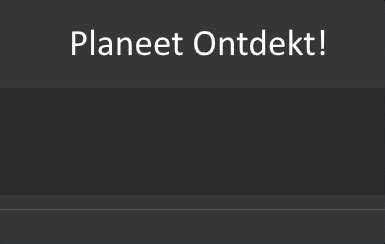
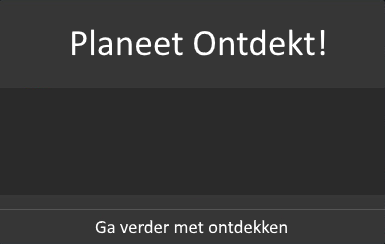
fixed healthbar in minigame

Changed region(s): [[0.2494, 0.8893, 0.7481, 0.9754]]

diff --git a/dev/game.ts b/dev/game.ts
@@ -2,6 +2,7 @@
 
 module Game {
 
+
     export class TitleScreenState extends Phaser.State {
         game: Phaser.Game
         constructor() {
@@ -30,10 +31,13 @@ module Game {
     export class SpaceshipScreenState extends Phaser.State {
         game: Phaser.Game
         text: Phaser.Text
+        playerSprite:any
         constructor() {
             super()
         }
-        spaceshipImage: Phaser.Sprite
+        spaceship1: Phaser.Button
+        spaceship2: Phaser.Button
+        spaceship3: Phaser.Button
 
         preload() {
             this.load.image("spaceship1", "../dev/Assets/Graphics/Spaceship1.png")
@@ -41,15 +45,17 @@ module Game {
             this.load.image("spaceship3", "../dev/Assets/Graphics/Spaceship3.png")
         }
         create() {
-            this.spaceshipImage = this.add.sprite(500, 300, "spaceship1")
-            this.spaceshipImage = this.add.sprite(700, 300, "spaceship2")
-            this.spaceshipImage = this.add.sprite(900, 300, "spaceship3")
+            this.spaceship1 = this.add.button(500, 300, "spaceship1",  this.spaceshipClicked, this, 2, 1, 0)
+            this.spaceship2 = this.add.button(700, 300, "spaceship2",  this.spaceshipClicked, this, 2, 1, 0)
+            this.spaceship3 = this.add.button(900, 300, "spaceship3",  this.spaceshipClicked, this, 2, 1, 0)
             this.text = this.game.add.text(650, 200, 'Kies je Ruimteschip', { font: '20px Arial', fill: '#ffffff' })
-            this.input.onTap.addOnce(this.spaceshipClicked, this) // <-- that um, this is extremely important
+          //  this.input.onTap.addOnce(this.spaceshipClicked, this) // <-- that um, this is extremely important
         }
-        spaceshipClicked() {
+        spaceshipClicked(spaceship:any) {
             this.game.state.start("GameRunningState")
-            console.log(this.spaceshipClicked)
+            this.playerSprite = spaceship.key
+            console.log(this.playerSprite)
+            
         }
     }
 
@@ -119,8 +125,8 @@ module Game {
                 this.popup = this.game.add.sprite(window.innerWidth / 2.7, window.innerHeight / 2.7, 'popup')
                 this.popup.alpha = 0.8
              //   this.game.add.text(this.popup.x / 1.3 + 180, this.popup.y + 15, 'Planeet ontdekt!', { font: '40px Arial', fill: '#ffffff' })
-                this.confirm = this.game.add.button(this.popup.x , this.popup.y + 209, 'button', this.confirmm, this, 2, 1, 0)
-                this.cancel = this.game.add.button(this.popup.x + 192, this.popup.y + 209, 'button1', this.cancell, this, 2, 1, 0)
+            //    this.confirm = this.game.add.button(this.popup.x , this.popup.y + 209, 'button', this.confirmm, this, 2, 1, 0)
+          //      this.cancel = this.game.add.button(this.popup.x + 192, this.popup.y + 209, 'button1', this.cancell, this, 2, 1, 0)
 
              //   this.text = this.game.add.text(this.popup.x , this.popup.y+ 216, ' Probeer opnieuw           Terug ontdekken', { font: '20px Arial', fill: '#ffffff' })
 
@@ -173,6 +179,8 @@ module Game {
             this.game.load.image("button", "../dev/Assets/graphics/button.png")
             this.game.load.image("asteroid", "../dev/Assets/graphics/2.png")
             this.game.load.image("hearts", "../dev/Assets/graphics/hearts.png")
+            this.game.load.image("hearts1", "../dev/Assets/graphics/hearts1.png")
+            this.game.load.image("hearts2", "../dev/Assets/graphics/hearts2.png")
             this.game.load.spritesheet("kaboom", "../dev/Assets/graphics/explode.png", 128, 128);
         }
         create() {
@@ -198,10 +206,11 @@ module Game {
 
             // hearts settings
             if(this.life > 2){
-                this.game.add.sprite(window.innerWidth - 100, 100, "hearts")
-                this.game.add.sprite(window.innerWidth - 170, 100, "hearts")
-                this.game.add.sprite(window.innerWidth - 240, 100, "hearts")
+                this.game.add.sprite(window.innerWidth - 250, 50, "hearts")
+             //   this.game.add.sprite(window.innerWidth - 170, 100, "hearts")
+               // this.game.add.sprite(window.innerWidth - 240, 100, "hearts")
             }
+
 
             // for(let i = 0; i < this.life; i++){
             //     let heatspos = 100
@@ -241,7 +250,13 @@ module Game {
            this.timePassed +=1
            console.log(this.timePassed);
            
-           
+           if(this.life == 2){
+            this.game.add.sprite(window.innerWidth - 250, 50, "hearts1")
+        }
+        else if(this.life == 1){
+            this.game.add.sprite(window.innerWidth - 250, 50, "hearts2")
+            
+        }
             if(this.timePassed == 1000){
                
                 
@@ -343,6 +358,7 @@ module Game {
         buttonUp: Phaser.Button
         pad: Phaser.Gamepad
         stick:any
+        spaceshipSprite: Game.SpaceshipScreenState.spaceshipSprite
         
  
         preload() {
@@ -367,7 +383,7 @@ module Game {
             
         }
         create() {
-
+console.log(this.spaceshipSprite)
             // Start Physics engine set world bounds and create stars
             this.game.physics.startSystem(Phaser.Physics.ARCADE);
             this.game.world.setBounds(0, 0, 3000, 3000);
@@ -664,7 +680,7 @@ module Game {
             this.game.state.add("SpaceshipScreenState", SpaceshipScreenState, false)
             this.game.state.add("GameOverScreenState", GameOverScreenState, false)
             this.game.state.add("WinScreenState", WinScreenState, false)
-            this.game.state.start("WinScreenState", true, true)
+            this.game.state.start("TitleScreenState", true, true)
 
             // this.game.state.start("TitleScreenState", true, true)
         }

diff --git a/docs/js/main.js b/docs/js/main.js
@@ -44,15 +44,15 @@ var Game;
             this.load.image("spaceship3", "../dev/Assets/Graphics/Spaceship3.png");
         };
         SpaceshipScreenState.prototype.create = function () {
-            this.spaceshipImage = this.add.sprite(500, 300, "spaceship1");
-            this.spaceshipImage = this.add.sprite(700, 300, "spaceship2");
-            this.spaceshipImage = this.add.sprite(900, 300, "spaceship3");
+            this.spaceship1 = this.add.button(500, 300, "spaceship1", this.spaceshipClicked, this, 2, 1, 0);
+            this.spaceship2 = this.add.button(700, 300, "spaceship2", this.spaceshipClicked, this, 2, 1, 0);
+            this.spaceship3 = this.add.button(900, 300, "spaceship3", this.spaceshipClicked, this, 2, 1, 0);
             this.text = this.game.add.text(650, 200, 'Kies je Ruimteschip', { font: '20px Arial', fill: '#ffffff' });
-            this.input.onTap.addOnce(this.spaceshipClicked, this);
         };
-        SpaceshipScreenState.prototype.spaceshipClicked = function () {
+        SpaceshipScreenState.prototype.spaceshipClicked = function (spaceship) {
             this.game.state.start("GameRunningState");
-            console.log(this.spaceshipClicked);
+            this.playerSprite = spaceship.key;
+            console.log(this.playerSprite);
         };
         return SpaceshipScreenState;
     }(Phaser.State));
@@ -101,8 +101,6 @@ var Game;
         WinScreenState.prototype.create = function () {
             this.popup = this.game.add.sprite(window.innerWidth / 2.7, window.innerHeight / 2.7, 'popup');
             this.popup.alpha = 0.8;
-            this.confirm = this.game.add.button(this.popup.x, this.popup.y + 209, 'button', this.confirmm, this, 2, 1, 0);
-            this.cancel = this.game.add.button(this.popup.x + 192, this.popup.y + 209, 'button1', this.cancell, this, 2, 1, 0);
             this.timeDelay = this.game.time.now + 10000000000;
         };
         WinScreenState.prototype.confirmm = function () {
@@ -132,6 +130,8 @@ var Game;
             this.game.load.image("button", "../dev/Assets/graphics/button.png");
             this.game.load.image("asteroid", "../dev/Assets/graphics/2.png");
             this.game.load.image("hearts", "../dev/Assets/graphics/hearts.png");
+            this.game.load.image("hearts1", "../dev/Assets/graphics/hearts1.png");
+            this.game.load.image("hearts2", "../dev/Assets/graphics/hearts2.png");
             this.game.load.spritesheet("kaboom", "../dev/Assets/graphics/explode.png", 128, 128);
         };
         MiniGameState.prototype.create = function () {
@@ -146,9 +146,7 @@ var Game;
                 this.asteroidSprite.push(this.game.add.sprite(posy, posx, 'asteroid'));
             }
             if (this.life > 2) {
-                this.game.add.sprite(window.innerWidth - 100, 100, "hearts");
-                this.game.add.sprite(window.innerWidth - 170, 100, "hearts");
-                this.game.add.sprite(window.innerWidth - 240, 100, "hearts");
+                this.game.add.sprite(window.innerWidth - 250, 50, "hearts");
             }
             this.game.physics.enable(this.asteroidSprite, Phaser.Physics.ARCADE);
             this.spaceshipSprite = this.game.add.sprite(1165, 1916, 'player');
@@ -166,6 +164,12 @@ var Game;
             var _this = this;
             this.timePassed += 1;
             console.log(this.timePassed);
+            if (this.life == 2) {
+                this.game.add.sprite(window.innerWidth - 250, 50, "hearts1");
+            }
+            else if (this.life == 1) {
+                this.game.add.sprite(window.innerWidth - 250, 50, "hearts2");
+            }
             if (this.timePassed == 1000) {
                 this.game.state.start("WinScreenState", true, false);
                 this.life = 3;
@@ -246,6 +250,7 @@ var Game;
             this.game.load.image("buttonLeft", '../dev/assets/graphics/buttonLeft.png');
         };
         GameRunningState.prototype.create = function () {
+            console.log(this.spaceshipSprite);
             this.game.physics.startSystem(Phaser.Physics.ARCADE);
             this.game.world.setBounds(0, 0, 3000, 3000);
             for (var i = 0; i < 200; i++) {
@@ -502,7 +507,7 @@ var Game;
             this.game.state.add("SpaceshipScreenState", SpaceshipScreenState, false);
             this.game.state.add("GameOverScreenState", GameOverScreenState, false);
             this.game.state.add("WinScreenState", WinScreenState, false);
-            this.game.state.start("WinScreenState", true, true);
+            this.game.state.start("TitleScreenState", true, true);
         }
         return SpaceGame;
     }());
